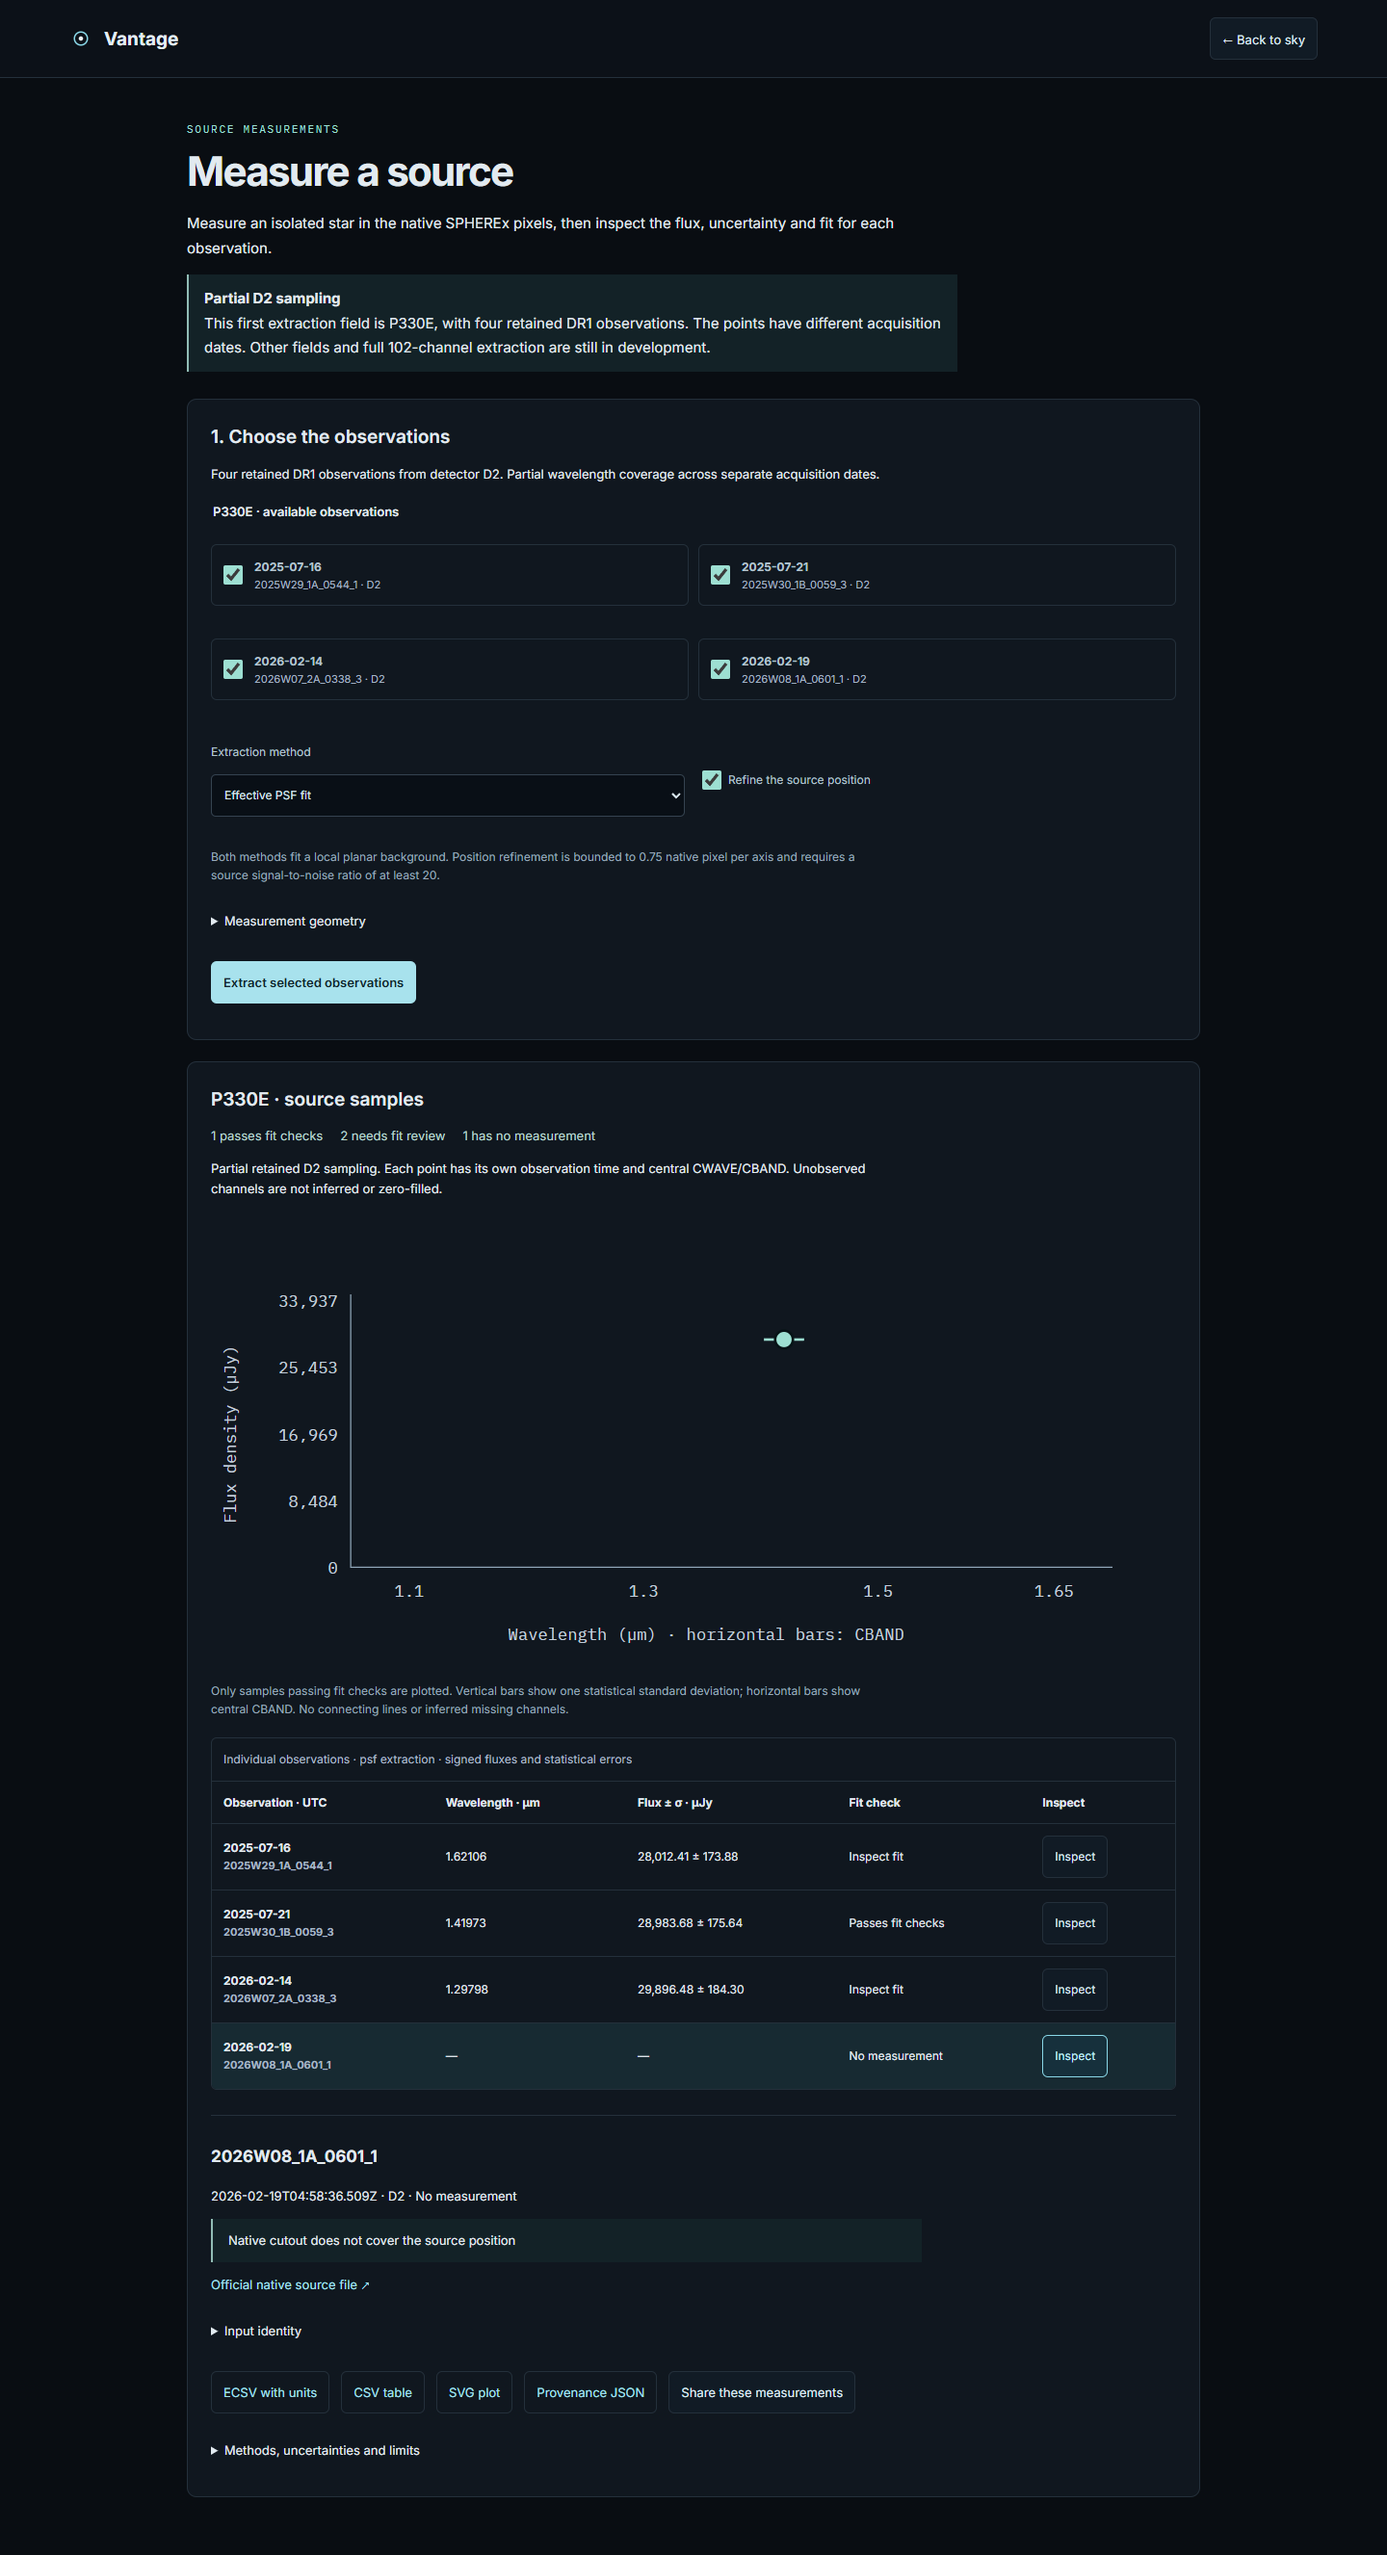
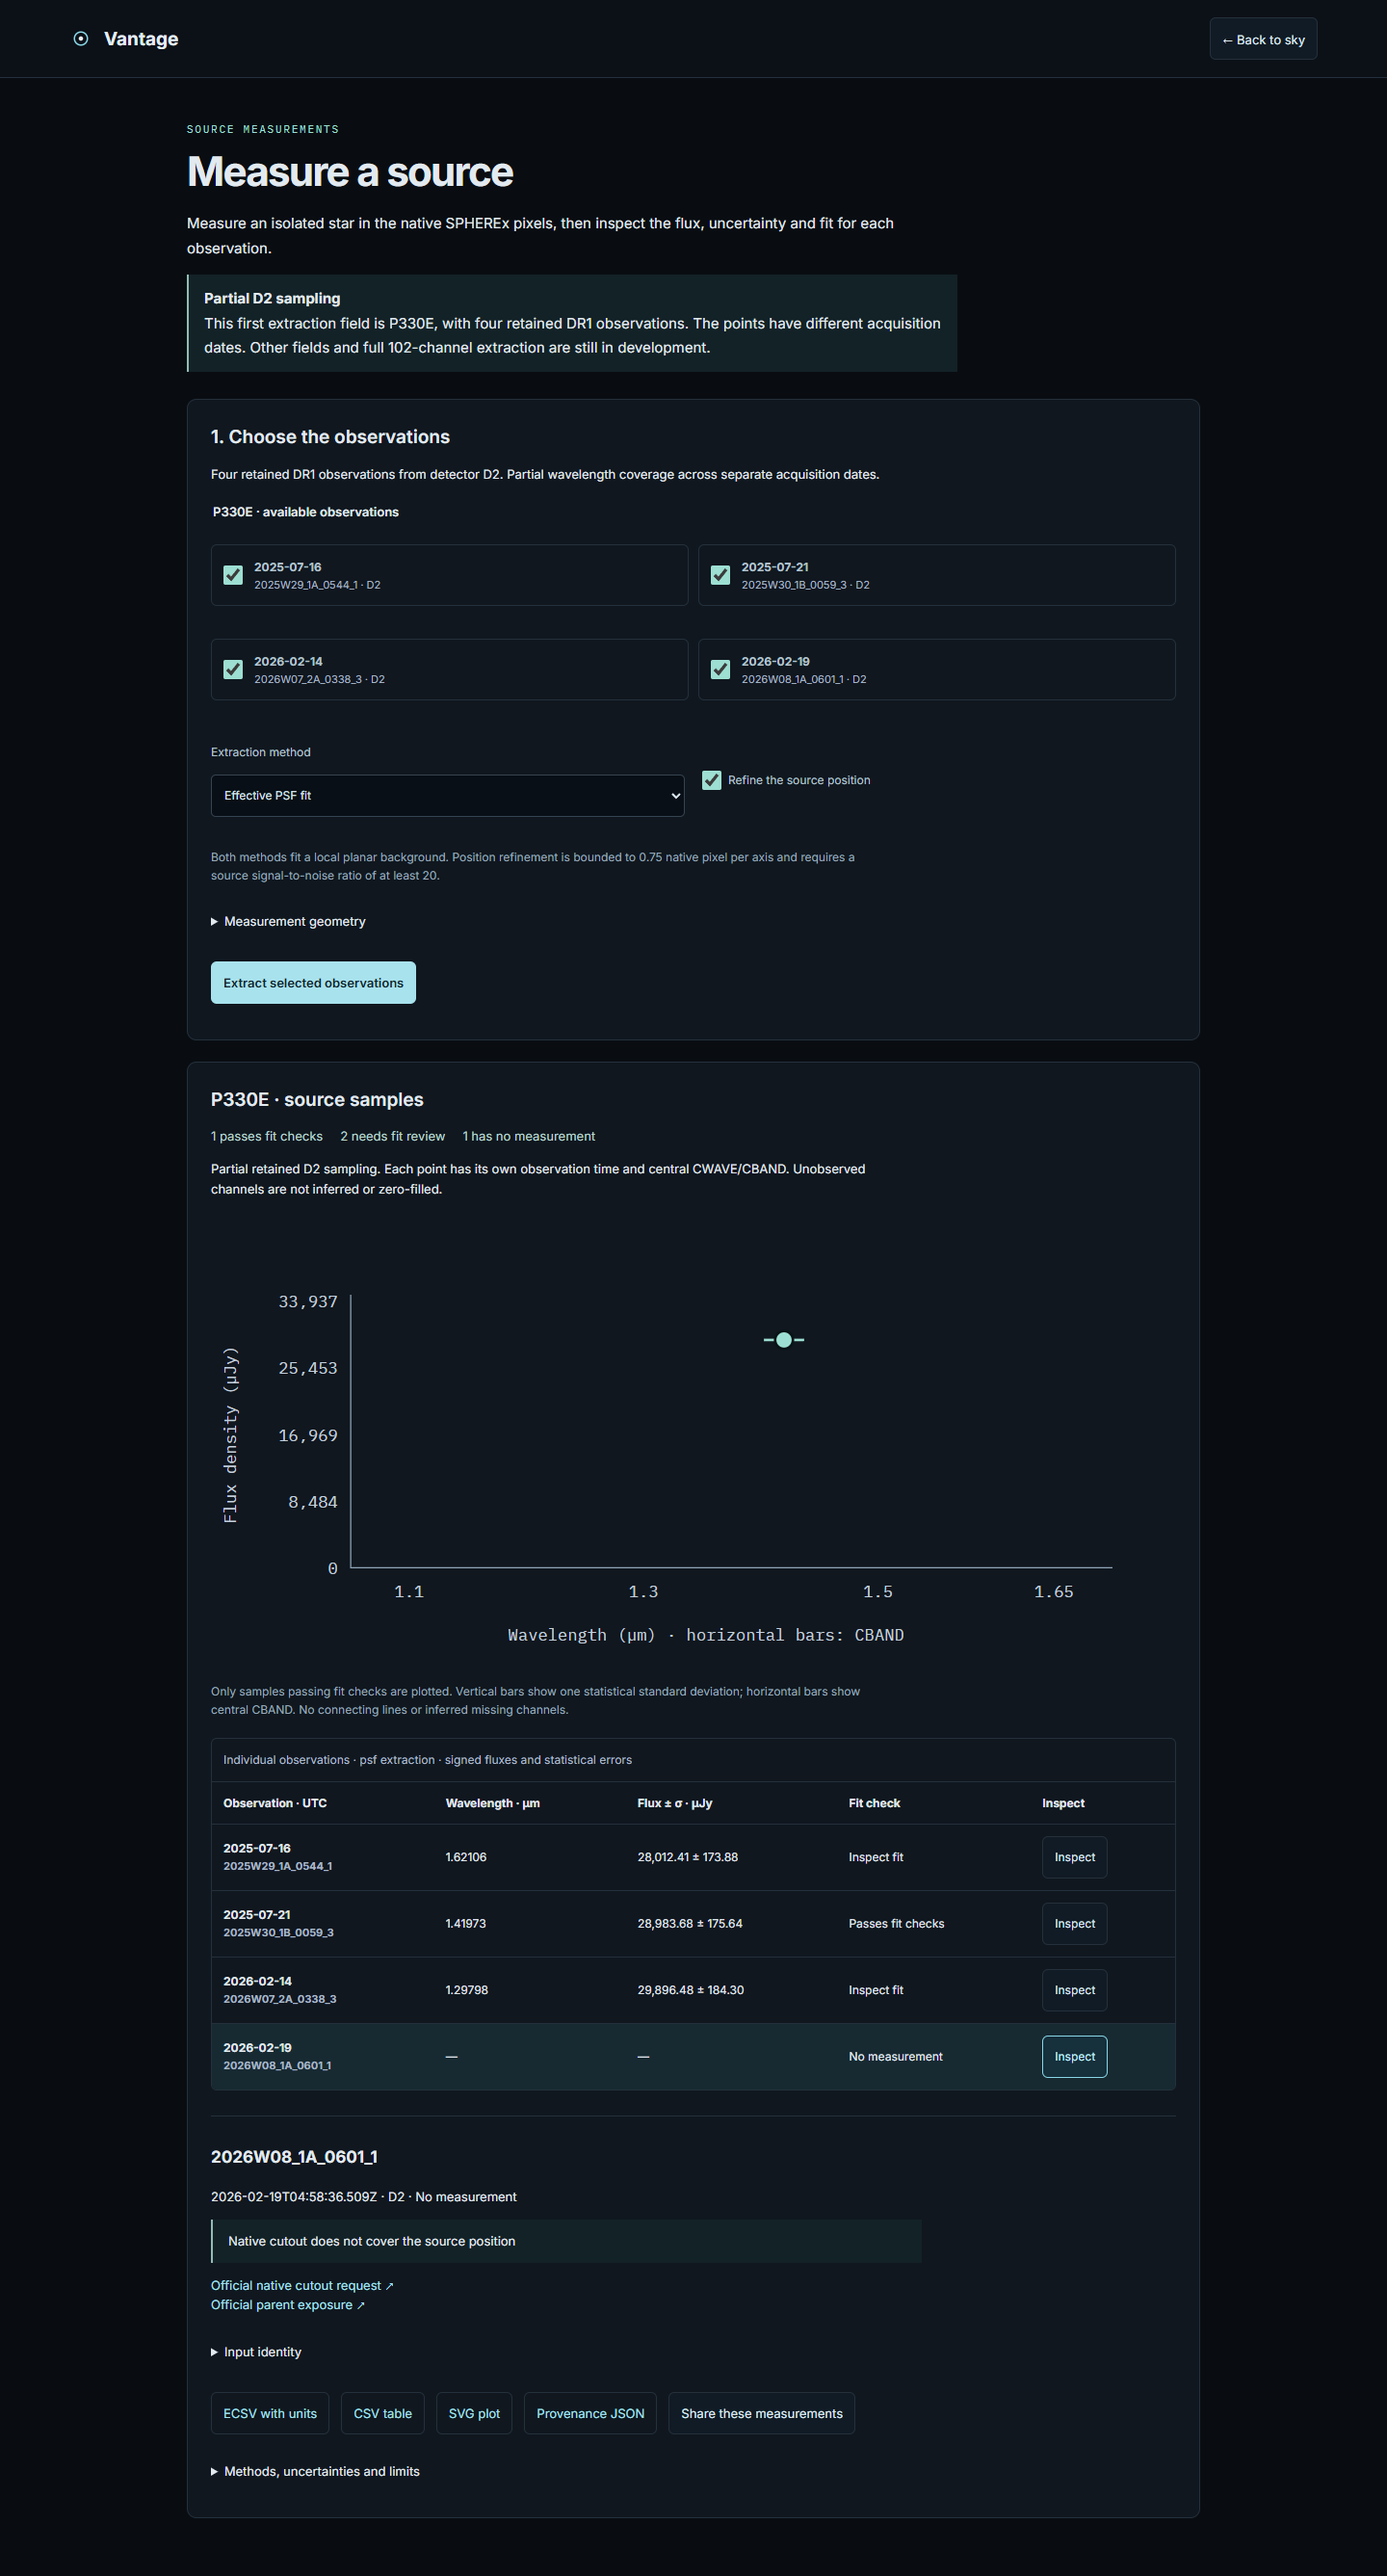
fix: distinguish native cutout provenance from parent exposures

diff --git a/src/SourceSamples.tsx b/src/SourceSamples.tsx
@@ -8,6 +8,7 @@ interface Target {key:string;name:string;revision:string;sampling_description:st
 interface Sample {obs_id:string;utc_mid:string;detector:number;status:'accepted'|'diagnostic_only'|'rejected';reason:string|null;
   flux_ujy:number|null;statistical_sigma_ujy:number|null;wavelength_um:number|null;bandwidth_um:number|null;
   reduced_chi2?:number;position_pixel_xy?:number[];pixel_flags_union?:number;source_url:string;source_sha256:string;
+  native_cutout_request?:{url:string;checksum_semantics:string};
   image_context?:{shape:number[];brightness_mjysr:(number|null)[][];residual_ujy:(number|null)[][];used:number[][]};
   centroid_fit?:{shift_pixel_xy:number[];sigma_pixel_xy:number[]}}
 interface Product {id:string;name:string;type:string;samples:Sample[];limitations:string[];uncertainty_method:string;credits:string;
@@ -182,8 +183,9 @@ export function SourceSamples({onTime,initialProduct}:{onTime:()=>void;initialPr
             <p>Residual score: {number(sample.reduced_chi2,3)} · maximum 3. This is a fit diagnostic, not a probability of discovery.</p>
             {sample.centroid_fit&&<p>Position shift: {sample.centroid_fit.shift_pixel_xy.map(v=>number(v,4)).join(', ')} native pixels.</p>}
             <div className="source-stamps"><NativeStamp sample={sample}/><NativeStamp sample={sample} residual/></div></>}
-          <p><a href={sample.source_url} target="_blank" rel="noreferrer">Official native source file ↗</a></p>
-          <details><summary>Input identity</summary><p className="source-hash">SHA-256: {sample.source_sha256}</p></details>
+          <p>{sample.native_cutout_request&&<><a href={sample.native_cutout_request.url} target="_blank" rel="noreferrer">Official native cutout request ↗</a><br/></>}
+            <a href={sample.source_url} target="_blank" rel="noreferrer">Official parent exposure ↗</a></p>
+          <details><summary>Input identity</summary><p className="source-hash">Retained cutout SHA-256: {sample.source_sha256}</p><p>The parent exposure is a separate file. The checksum identifies the retained cutout used for this measurement.</p></details>
         </section>}
         <div className="source-actions">{Object.entries(product.exports).map(([name,resource])=><a className="source-download" key={name} href={resource.url} download>{name==='samples.ecsv'?'ECSV with units':name==='samples.csv'?'CSV table':'SVG plot'}</a>)}
           <a className="source-download" href={'/v1/products/'+product.id} download={'vantage-'+product.id.slice(0,12)+'.json'}>Provenance JSON</a>

diff --git a/tests/browser/source-samples.spec.ts b/tests/browser/source-samples.spec.ts
@@ -10,6 +10,7 @@ test('actual source extraction, linked selection, rejection reasons and exports'
   await expect(page.getByText('1 passes fit checks',{exact:true})).toBeVisible();
   await page.getByRole('button',{name:'Inspect 2025W30_1B_0059_3'}).click();
   await expect(page.getByTestId('measurement-flux')).toContainText('28,983.68');
+  await expect(page.getByRole('link',{name:'Official native cutout request'})).toHaveAttribute('href',/center=.*size=0\.0625deg/);
   await expect(page.getByRole('img',{name:'Native brightness cutout; source cross marks the measured position. Array rows increase upward.'})).toBeVisible();
   await page.getByRole('button',{name:'Inspect 2026W08_1A_0601_1'}).click();
   await expect(page.getByTestId('selected-sample')).toContainText('does not cover');

diff --git a/backend/spectra.py b/backend/spectra.py
@@ -12,6 +12,7 @@ import tempfile
 from pathlib import Path
 from typing import Literal
 from xml.sax.saxutils import escape
+from urllib.parse import urlencode
 import numpy as np
 import astropy
 import photutils
@@ -26,7 +27,7 @@ from pydantic import BaseModel,ConfigDict,Field,model_validator
 from backend.science import ROOT,digest,write_json,finite_list
 from backend.photometry import measure_fits,POLICY as PHOTOMETRY_POLICY
 
-POLICY='retained-native-source-samples-1'
+POLICY='retained-native-source-samples-2'
 BENCHMARK=ROOT/'research/updates/2026-11-15/photometry'
 
 
@@ -65,10 +66,21 @@ def atomic_text(path,content):
     os.replace(temporary,path)
 
 
+def cutout_request(row):
+    if row['retrieval_mode']!='native_ibe_cutout':
+        raise ValueError('This retained workflow requires an explicitly recorded native IBE cutout derivation')
+    parameters={'center':f"{row['position_deg'][0]},{row['position_deg'][1]}deg",
+        'size':f"{row['cutout_fov_arcmin']/60*1.5}deg"}
+    return {'parent_url':row['ibe'],'parameters':parameters,'url':row['ibe']+'?'+urlencode(parameters),
+        'retrieval_mode':row['retrieval_mode'],'sha256':row['sha256'],
+        'checksum_semantics':'Checksum identifies the retained native IBE cutout response, not the full parent exposure. Parameters record its native cutout geometry. Compare any refreshed response bytes with this retained checksum; upstream service availability is separate.'}
+
+
 def native_sample(row,request,area_path):
     sample={k:row[k] for k in ['obs_id','detector','release','mjd_mid']}
     sample.update({'utc_mid':Time(row['mjd_mid'],format='mjd',scale='utc').isot+'Z',
         'source_url':row['ibe'],'source_sha256':row['sha256'],
+        'native_cutout_request':cutout_request(row),
         'calibration_url':row['calibration_url'],'calibration_sha256':row['calibration_sha256'],
         'input_position_deg':row['position_deg'],'flux_ujy':None,'statistical_sigma_ujy':None,
         'wavelength_um':None,'bandwidth_um':None,'status':'rejected','reason':None})
@@ -180,7 +192,7 @@ def build_spectrum(request,destination,check_cancel=lambda:None):
     canonical={'policy':POLICY,'photometry_policy':PHOTOMETRY_POLICY,
         'request':request.model_dump()|{'observation_indices':sorted(request.observation_indices)},
         'source':benchmark['source'],'position_model':benchmark['source_position_model'],
-        'observations':[{k:r[k] for k in ['obs_id','detector','release','mjd_mid','position_deg','sha256','calibration_sha256']} for r in rows],
+        'observations':[{k:r[k] for k in ['obs_id','detector','release','mjd_mid','position_deg','sha256','calibration_sha256','cutout_fov_arcmin','retrieval_mode']}|{'native_cutout_request':cutout_request(r)} for r in rows],
         'inputs':inputs,'residual_score_maximum':3.,
         'software':{'numpy':np.__version__,'scipy':scipy.__version__,'astropy':astropy.__version__,'photutils':photutils.__version__}}
     identity=hashlib.sha256(json.dumps(canonical,sort_keys=True,allow_nan=False).encode()).hexdigest()

diff --git a/tests/test_spectra.py b/tests/test_spectra.py
@@ -16,6 +16,11 @@ class SpectrumTests(unittest.TestCase):
             self.assertEqual(len(result['samples']),4)
             by_id={s['obs_id']:s for s in result['samples']}
             good=by_id['2025W30_1B_0059_3']
+            from urllib.parse import parse_qs,urlparse
+            query=parse_qs(urlparse(good['native_cutout_request']['url']).query)
+            self.assertEqual(query['size'],['0.0625deg'])
+            self.assertEqual(good['native_cutout_request']['parent_url'],good['source_url'])
+            self.assertEqual(good['native_cutout_request']['sha256'],good['source_sha256'])
             self.assertEqual(good['status'],'accepted')
             self.assertAlmostEqual(good['flux_ujy'],28983.6846778,places=3)
             self.assertAlmostEqual(good['statistical_sigma_ujy'],175.6402061,places=3)

diff --git a/REVIEW_PRODUCT.md b/REVIEW_PRODUCT.md
@@ -18,6 +18,8 @@ The UI and exports distinguish passing, diagnostic-only and rejected observation
 
 Review fixes from direct visual inspection: retain readable mobile chart labels through bounded horizontal scrolling; give export links usable widths; separate the flux axis from tick labels; restrict residual contrast to used fit pixels; restore aperture/observation choices from shared products; handle a cancellation racing with completed output; separate source-metadata errors from saved-product errors. All 52 scientific/API tests and 23 local browser tests pass, with focused browser checks after the final display fix. Public and fresh-source CI acceptance are recorded separately. The first workflow's strict P330E/D2 scope remains visible; it does not satisfy the full spectrum requirement or durable hosting.
 
+Provenance follow-up: a full parent-exposure link was initially labeled as the native input although the checksum identified the retained cutout. Policy version 2 records the explicit native cutout request/parameters and parent URL separately. Replayed requests for all four observations return the exact retained FITS checksums. Regression tests assert the cutout geometry/identity and the browser link. No flux, fit threshold, mask or covariance method changed.
+
 ## Name and survey context — November 15, 2026
 
 The adapter uses actual Gator VOTables for both Gaia DR3 and AllWISE after spatial TAP probes failed. It preserves integer source IDs as strings, catalog flags/epochs, raw-query hashes and all query URLs. Bounded response, concurrency, rows, radius and redirect policies keep the routes from becoming arbitrary fetch proxies. A negative test proves name redirects cannot leave the approved CDS mirror hosts.

diff --git a/research/updates/2026-11-15/photometry/SOURCE_WORKFLOW.md b/research/updates/2026-11-15/photometry/SOURCE_WORKFLOW.md
@@ -12,6 +12,8 @@ This increment connects the native photometry kernel to actual asynchronous extr
 
 OpenAPI is generated from the actual running FastAPI/Pydantic routes at `/openapi.json`. No caller-supplied filesystem path or archive URL is accepted by this slice.
 
+Provenance correction: policy `retained-native-source-samples-2` explicitly separates the full parent-exposure URL from the native cutout request/parameters and retained cutout checksum. The first workflow linked the parent while labeling it as the native measurement input; the corrected interface labels both resources accurately. All four recorded cutout requests were replayed against IRSA and returned exactly the retained SHA-256 values (artifacts/source-samples-live-cutout-links.json). An initial probe returned HTTP 503; subsequent sequential checks succeeded. This verifies the request/byte associations, not uninterrupted upstream availability. New request/product identities prevent earlier cached output from hiding the correction; existing products remain readable.
+
 ## Scientific interpretation
 
 Native `IMAGE`/`VARIANCE`, detector/observation/time associations, calibrated SAPM and embedded effective PSF drive the numerical measurement. Visual resampling is not used for fluxes. The methods and statistical assumptions are detailed in [METHODS.md](METHODS.md), with links to the official [IRSA ePSF tutorial](https://caltech-ipac.github.io/irsa-tutorials/spherex-psf/) and [SPHEREx product documentation](https://caltech-ipac.github.io/spherex-archive-documentation/spherex-data-products/).
